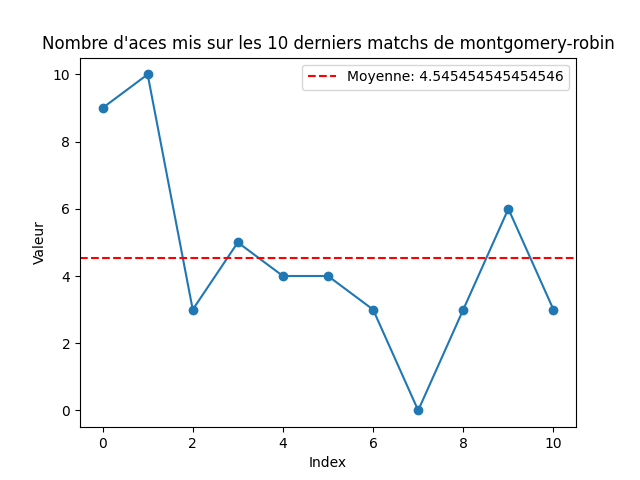
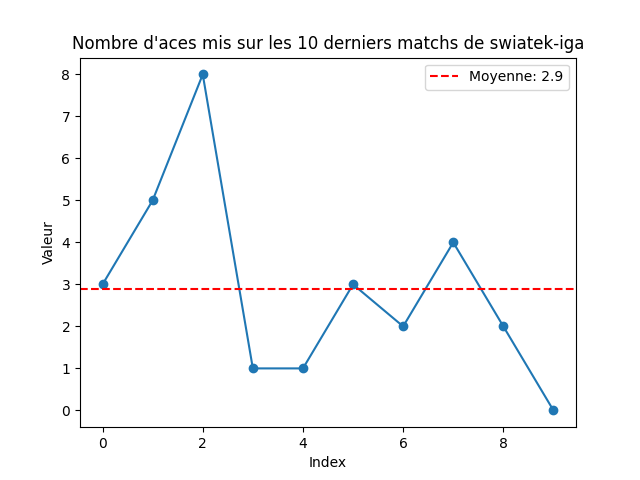
Add some new values in the front

diff --git a/templates/game.html b/templates/game.html
@@ -6,8 +6,10 @@
 </head>
 <body>
     <h1>Game</h1>
-    <p>Player 1 : {{ namePlayer1 }}</p>
-    <p>Player 2 : {{ namePlayer2 }}</p>
+    <p>Player 1 : {{ namePlayer1 }} a mis en moyenne {{aces_mis_avg}} aces sur les 10 derniers matchs</p>
+    <p>Player 2 : {{ namePlayer2 }} a pris en moyenne {{aces_pris_avg}} aces sur les 10 derniers matchs</p>
+    <p>Prediction 1: {{prediction1}}</p>
+    <p>Prediction 2: {{prediction2}}</p>
     <img src="{{ url_for('static', filename='aces_against_ranked_receiver.png') }}">
     <img src="{{ url_for('static', filename='aces_against_ranked_server.png') }}">
     <img src="{{ url_for('static', filename='aces_last_10_matches.png') }}">

diff --git a/launch_server.py b/launch_server.py
@@ -3,6 +3,9 @@ from flask import render_template
 
 from backend import util, graph_builder
 
+import matplotlib.pyplot as plt
+import numpy as np
+
 
 app = Flask(__name__)
 
@@ -24,16 +27,25 @@ def game_page(namePlayer1, namePlayer2):
 
 
     result = util.retrieve_player_statsAce(full_name_1, elo_1)
+    average_aces_player1 = sum(result[0]) / len(result[0])
     graph_builder.build_graph_aces_last_10_matches(result[0][::-1], full_name_1)
-    graph_builder.build_graph_aces_against_ranked_receiver(result[0][::-1], result[2][::-1], full_name_1, str(namePlayer2).lower())
+    prediction_one = graph_builder.build_graph_aces_against_ranked_receiver(result[0][::-1], result[2][::-1], full_name_1, str(namePlayer2).lower())
+
 
     result = util.retrieve_player_statsAce(full_name_2, elo_2)
+    average_aces_player2 = sum(result[1]) / len(result[1])
     graph_builder.build_graph_receive_stats_last_10_matches(result[1][::-1], full_name_2)
-    graph_builder.build_graph_aces_against_ranked_server(result[1][::-1], result[2][::-1], full_name_2, str(namePlayer1).lower())
+    prediction_two = graph_builder.build_graph_aces_against_ranked_server(result[1][::-1], result[2][::-1], full_name_2, str(namePlayer1).lower())
+
 
     return render_template('game.html',
                            namePlayer1=full_name_1,
-                           namePlayer2=full_name_2)
+                           namePlayer2=full_name_2,
+                           aces_mis_avg=average_aces_player1,
+                           aces_pris_avg=average_aces_player2,
+                           prediction1 = prediction_one,
+                           prediction2 = prediction_two
+                           )
 
 
 

diff --git a/backend/graph_builder.py b/backend/graph_builder.py
@@ -53,6 +53,8 @@ def build_graph_aces_against_ranked_receiver(array_aces, array_opponents, player
     plt.savefig('./static/aces_against_ranked_receiver.png')
     plt.close()
 
+    return aces_value
+
 
 def build_graph_receive_stats_last_10_matches(array_receive, playername):
     moyenne = sum(array_receive) / len(array_receive)
@@ -102,6 +104,8 @@ def build_graph_aces_against_ranked_server(array_receive, array_opponents, playe
     #plt.show()
     plt.savefig('./static/aces_against_ranked_server.png')
     plt.close()
+
+    return aces_value
 
 
 if __name__ == '__main__':
